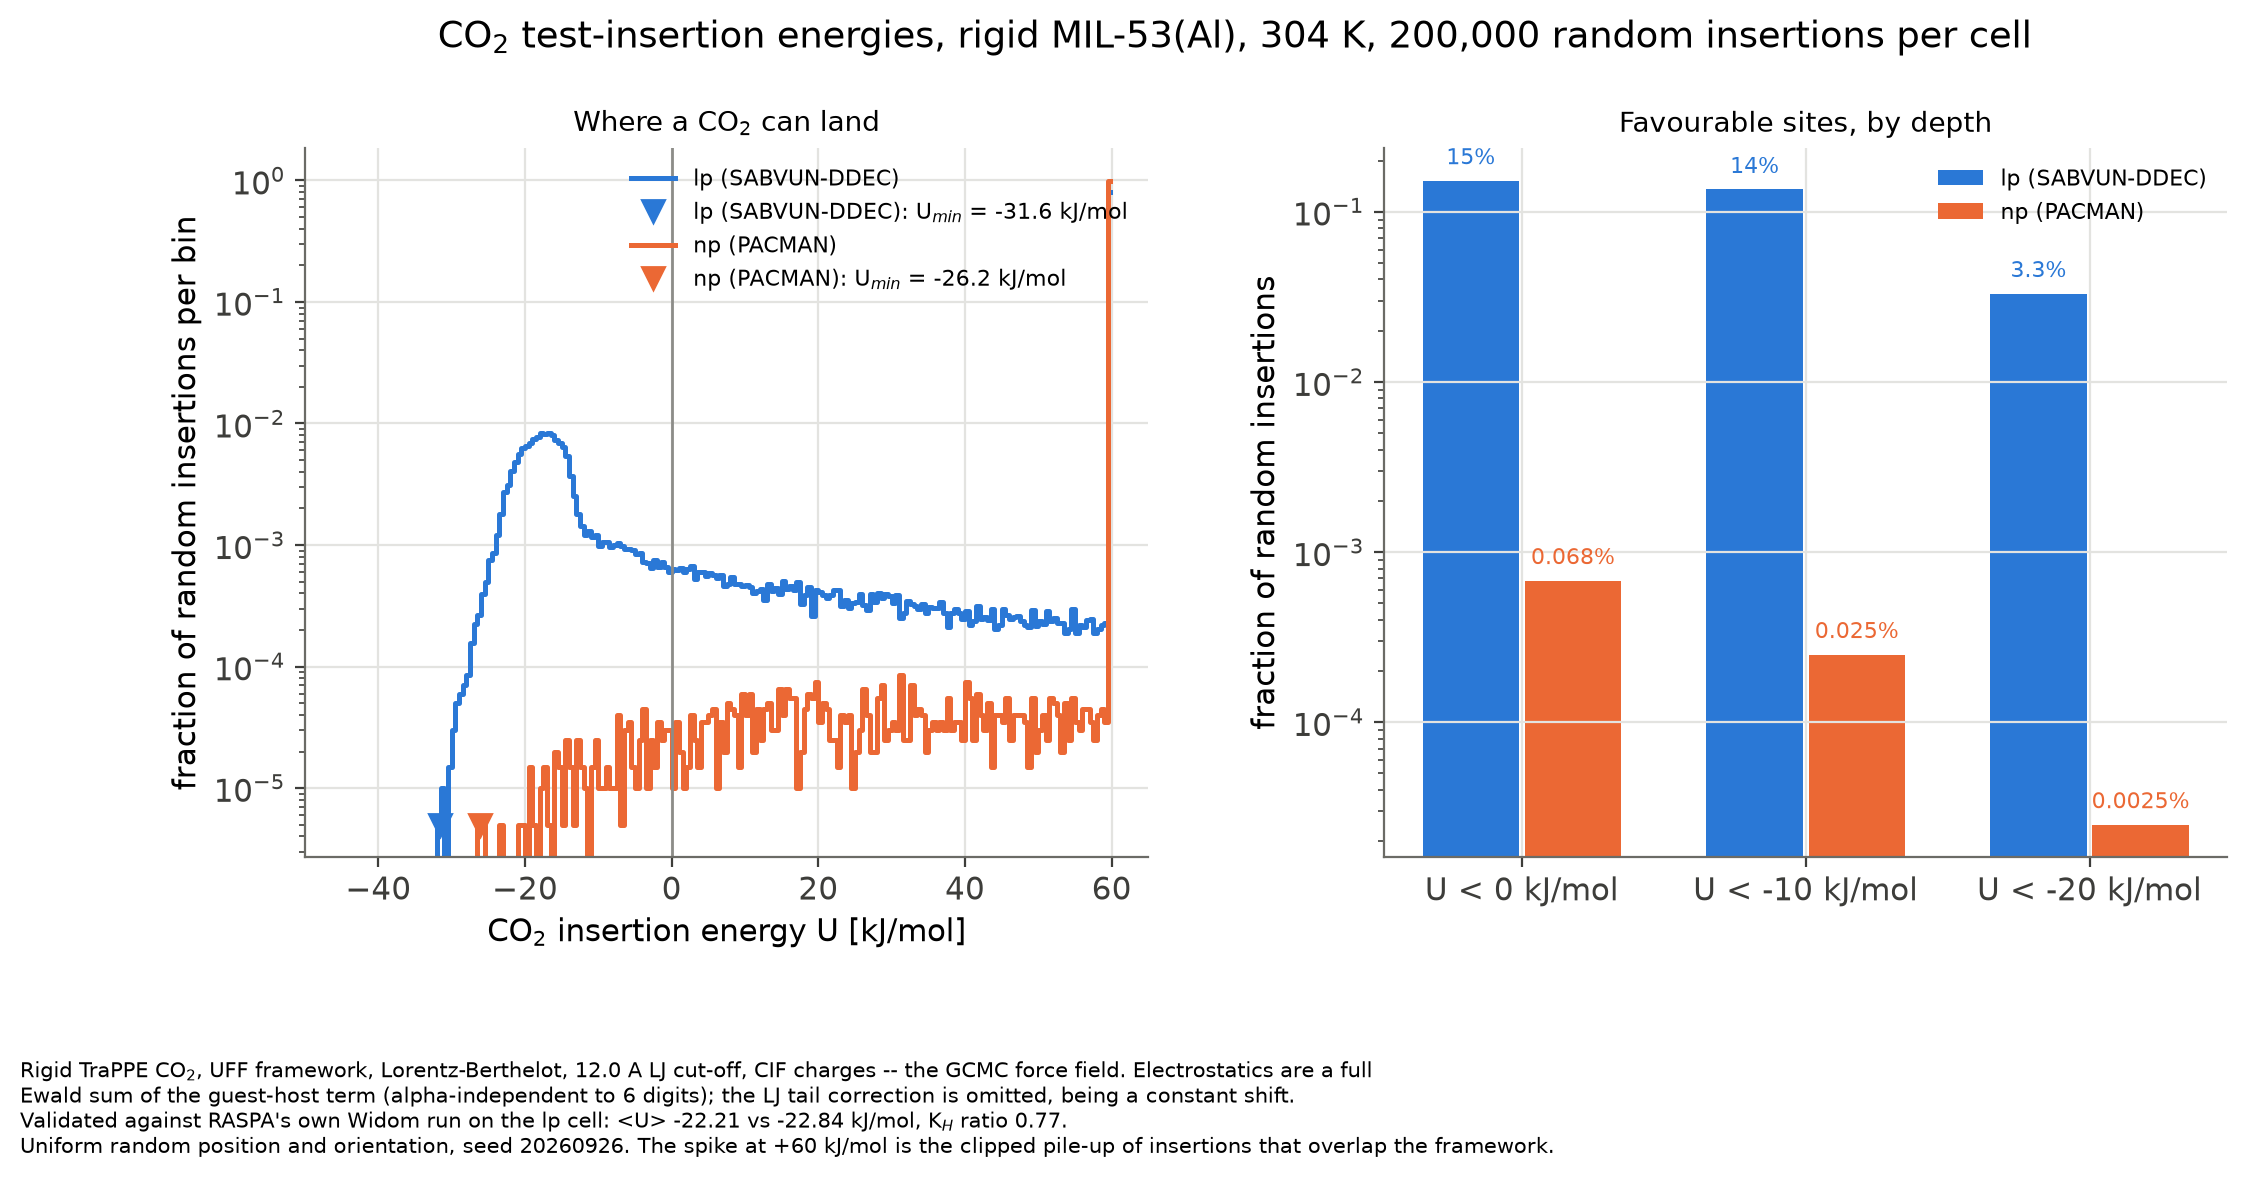
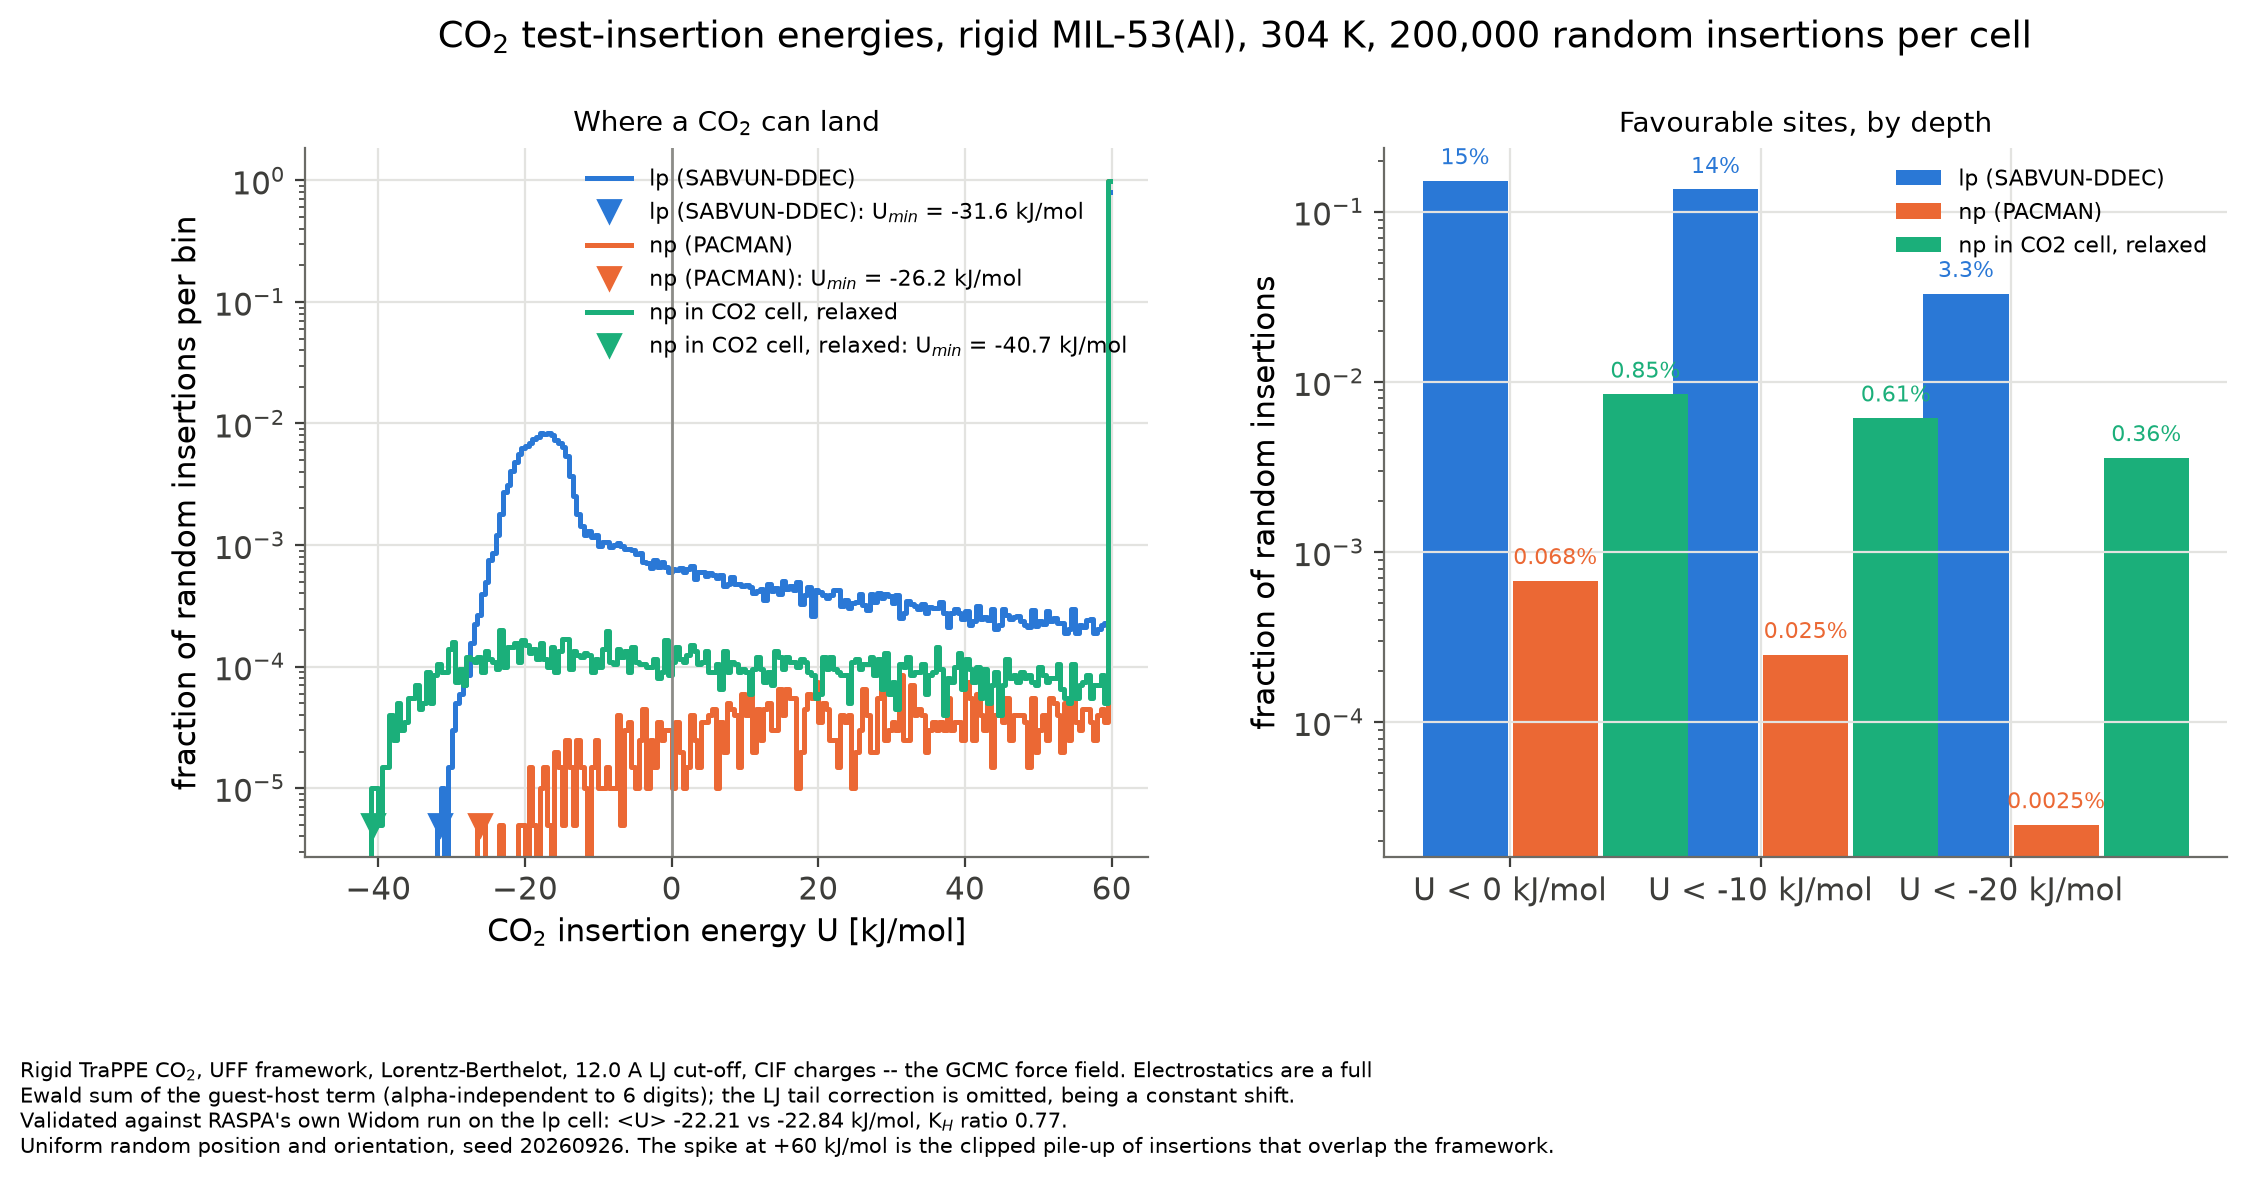
Henry constant in the CO2-cell np structure

Changed region(s): [[0.6231, 0.122, 0.9969, 0.7627], [0.2492, 0.122, 0.4984, 0.3051], [0.1558, 0.5186, 0.4984, 0.7017]]

diff --git a/NOTES.md b/NOTES.md
@@ -1336,6 +1336,58 @@ rather than cancel. **Decision: rerun PACMAN v1.1 on the relaxed framework befor
 GCMC.** Cheap, and it removes a systematic error at the one site that dominates np
 binding.
 
+**5.7.7 The answer, from the production force field** (`scripts/insertion_energy.py`,
+200,000 random rigid-CO2 insertions per cell, UFF + TraPPE, Lorentz-Berthelot, 12 A LJ
+cut-off, CIF charges, full Ewald of the guest-host term; validated on lp against RASPA's
+own Widom run, <U> -22.21 vs -22.84 kJ/mol, K_H ratio 0.767).
+
+| | frac(U<0) | frac(U<-20) | U_min | <U>_boltz | Rosenbluth | K_H [mol/kg/Pa] |
+|---|---|---|---|---|---|---|
+| lp | 15.23 % | 3.31 % | -31.57 | -22.21 | 354.6 | 1.433e-4 |
+| np, original | 0.068 % | 0.0025 % | -26.18 | -23.06 | 0.479 | 1.296e-7 |
+| **np, CO2 cell, relaxed** | **0.848 %** | **0.359 %** | **-40.73** | **-36.26** | **1374.1** | **4.218e-4** |
+
+**Changing the structure alone raises K_H by a factor of 3,254.** Nothing else changed:
+same force field, same charges, same cut-off, same Ewald, same sampler, same seed.
+
+**And the sign of the error flips.** Against Coudert's experimental K_np = 9.0e-5:
+
+| | vs experiment | bias-corrected (divide by the sampler's 0.767 lp bias) |
+|---|---|---|
+| np, original | **694x too SMALL** | 532x too small |
+| **np, CO2 cell** | **4.69x too LARGE** | 6.11x too large |
+| lp, same force field, vs K_lp = 2.6e-5 | 5.51x too large | 7.19x too large |
+
+**This is the result the whole of 5.6b and 5.7 was built to get.** The np deficit was
+694x. In the experimental CO2-loaded cell it becomes a 4.7x *excess* -- which is the same
+size, the same sign and the same kind of error the identical force field makes on the lp
+phase (5.5x). The 326-694x discrepancy was **not** a force-field failure. It was the
+wrong structure, and once the structure is right the residual collapses onto the
+low-coverage over-binding already characterised for lp ("What a rigid-framework GCMC can
+and cannot reproduce", K_sim/K_exp = 3.95 on the matched Langmuir procedure).
+
+**Why the new cell binds so hard.** Favourable sites are still 18x rarer than in lp
+(0.85 % against 15.2 %), but where they exist they are **much deeper**: U_min -40.7
+against lp's -31.6, and <U>_boltz -36.3 against -22.2 kJ/mol. Tighter confinement means
+more framework atoms within range of each CO2, so the well is deeper even though there is
+less room. That is why the Rosenbluth factor is 1374 against lp's 355 despite the
+scarcity of sites. It is also, exactly, the regime in which a generic UFF + point-charge
+model over-binds worst, which is consistent with the residual 4.7x being force-field
+error rather than structural.
+
+**Caveat, and it points the right way.** These numbers use the PACMAN charges of the
+ORIGINAL np geometry, carried over unchanged -- the thing 5.7.6 says not to do. CO2 binds
+through its quadrupole to the mu-OH dipole, and that dipole is inflated about 8 % by the
+0.893 -> 0.967 A bond change. Correcting it should **reduce** the binding and so **reduce
+the 4.7x overshoot**, moving the result towards experiment rather than away. So 4.7x is an
+upper bound on the overshoot, and the PACMAN rerun is worth doing before any number here
+is quoted as final.
+
+**Status of step B.** Held until the charges are redone. The quantity that will settle it
+is a RASPA Widom run in this cell on freshly-charged geometry, then the 10-point isotherm
+and `osmotic.py` with the charge-consistent pair, primary cell as Dundar 2017 and
+sensitivity at the 0.950-scaled volume.
+
 ## What a rigid-framework GCMC can and cannot reproduce for MIL-53
 (rewritten 2026-09-20 against our own numbers)
 
